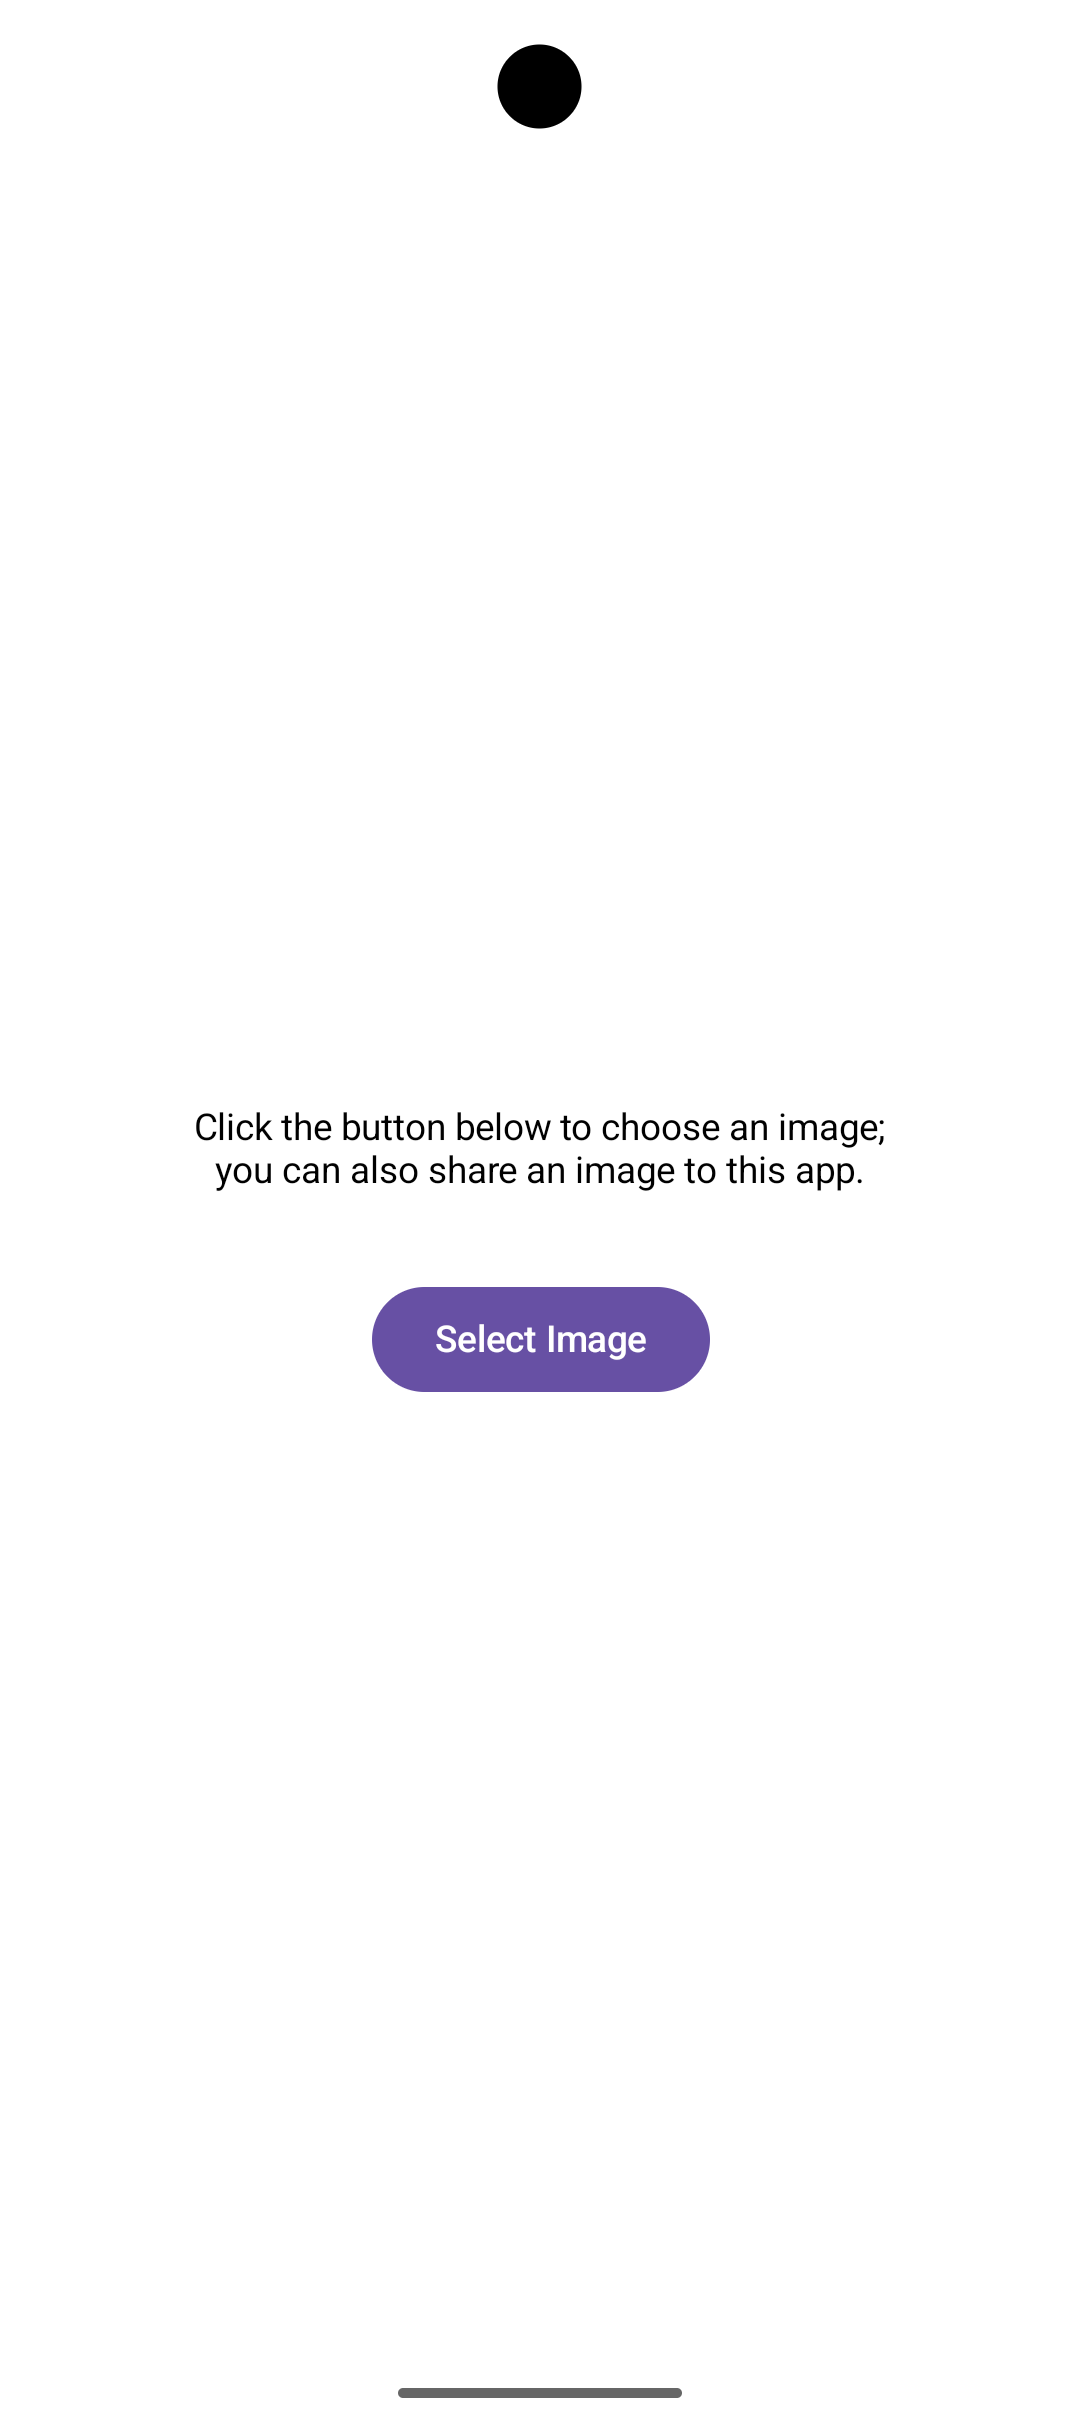
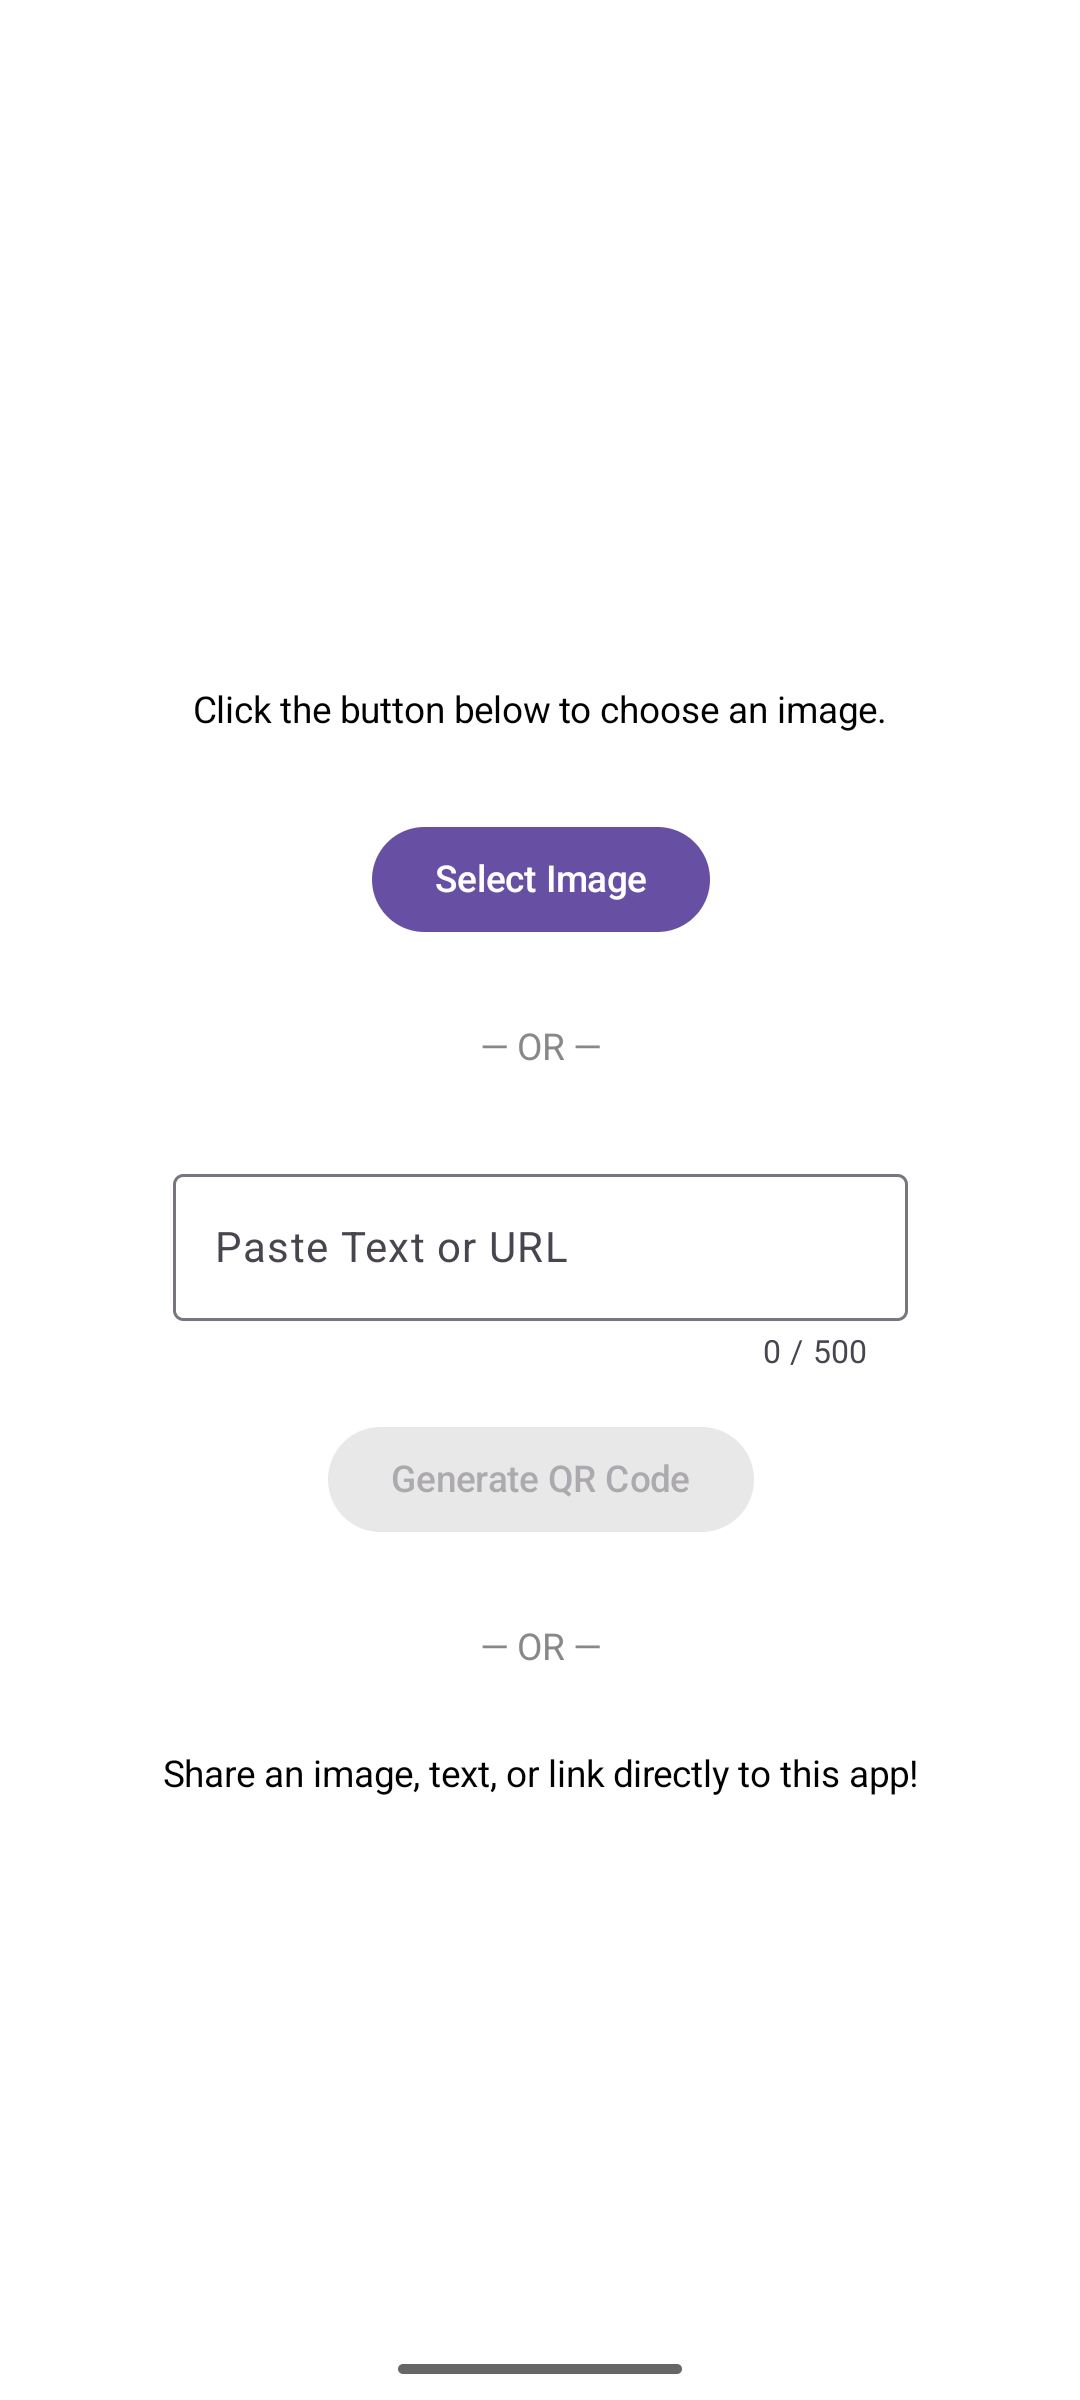
added option to receive text over share intent

diff --git a/app/src/main/java/app/cbdm/qrcodedisplayer/MainActivity.kt b/app/src/main/java/app/cbdm/qrcodedisplayer/MainActivity.kt
@@ -98,10 +98,12 @@ class MainActivity : ComponentActivity() {
 
     // Global state to trigger UI recomposition
     private val qrCodeData = mutableStateOf<String?>(null)
-    private val defaultStatusMessage = "Click the button below to choose an image;\nyou can also share an image to this app."
+    private val defaultStatusMessage = "Click the button below to choose an image."
     private val statusMessageForFailure = "Unable to find or decode a QR code from your image :("
     private val statusMessage = mutableStateOf(defaultStatusMessage)
     private val debugMessage = mutableStateOf<String?>(null)
+    // Max length for user input
+    private val maxInputLimit = 500
 
     override fun onCreate(savedInstanceState: Bundle?) {
         super.onCreate(savedInstanceState)
@@ -272,13 +274,14 @@ class MainActivity : ComponentActivity() {
                         Spacer(modifier = Modifier.height(32.dp))
 
                         // The new manual text field
-                        val maxInputLimit = 500
                         OutlinedTextField(
                             value = manualInputText,
                             onValueChange = { newText ->
                                 // Make sure the input has a reasonable length to fit in a qr code.
                                 if (newText.length <= maxInputLimit) {
                                     manualInputText = newText
+                                } else {
+                                    debugMessage.value = "User input is too long (${newText.length} / $maxInputLimit)"
                                 }
                             },
                             label = { Text("Paste Text or URL") },
@@ -312,6 +315,12 @@ class MainActivity : ComponentActivity() {
                         ) {
                             Text("Generate QR Code")
                         }
+
+                        Spacer(modifier = Modifier.height(32.dp))
+                        Text("— OR —", color = Color.Gray)
+                        Spacer(modifier = Modifier.height(32.dp))
+
+                        Text("Share an image, text, or link directly to this app!")
                     }
                 }
 
@@ -487,17 +496,31 @@ class MainActivity : ComponentActivity() {
     }
 
     private fun handleIntent(intent: Intent) {
-        if (intent.action == Intent.ACTION_SEND && intent.type?.startsWith("image/") == true) {
-            @Suppress("DEPRECATION")
-            val uri = intent.getParcelableExtra<Uri>(Intent.EXTRA_STREAM)
-            if (uri != null) {
-                statusMessage.value = "Analyzing..."
-                // Launch the heavy scanning process in the background
-                lifecycleScope.launch {
-                    decodeImageWithFallback(uri)
+        if (intent.action == Intent.ACTION_SEND) {
+            if (intent.type?.startsWith("image/") == true) { // Handle incoming images.
+                @Suppress("DEPRECATION")
+                val uri = intent.getParcelableExtra<Uri>(Intent.EXTRA_STREAM)
+                if (uri != null) {
+                    statusMessage.value = "Analyzing..."
+                    // Launch the heavy scanning process in the background
+                    lifecycleScope.launch {
+                        decodeImageWithFallback(uri)
+                    }
+                } else {
+                    debugMessage.value = "Error: No image attached."
                 }
-            } else {
-                statusMessage.value = "Error: No image attached."
+            } else if (intent.type == "text/plain") { // Handle incoming text/URLs.
+                val sharedText = intent.getStringExtra(Intent.EXTRA_TEXT)
+                if (!sharedText.isNullOrBlank()) {
+                    if (sharedText.length <= maxInputLimit) {
+                        // If user shared valid text, set that as the qr code data and set debug info.
+                        qrCodeData.value = sharedText
+                        debugMessage.value = "QR code created from shared text"
+                    } else {
+                        debugMessage.value =
+                            "Error: shared text is too long (${sharedText.length} / $maxInputLimit)"
+                    }
+                }
             }
         }
     }
